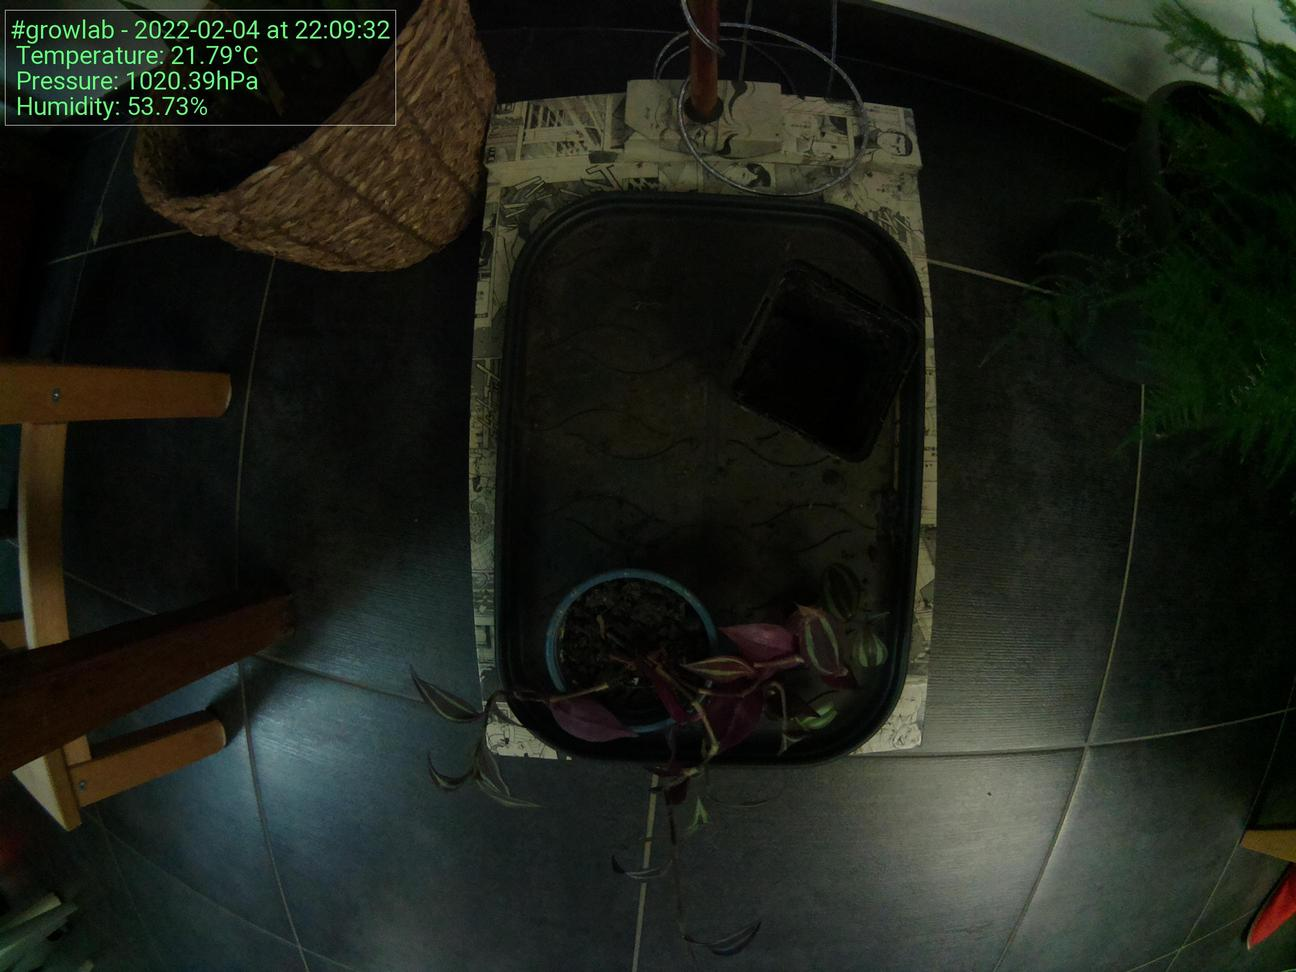
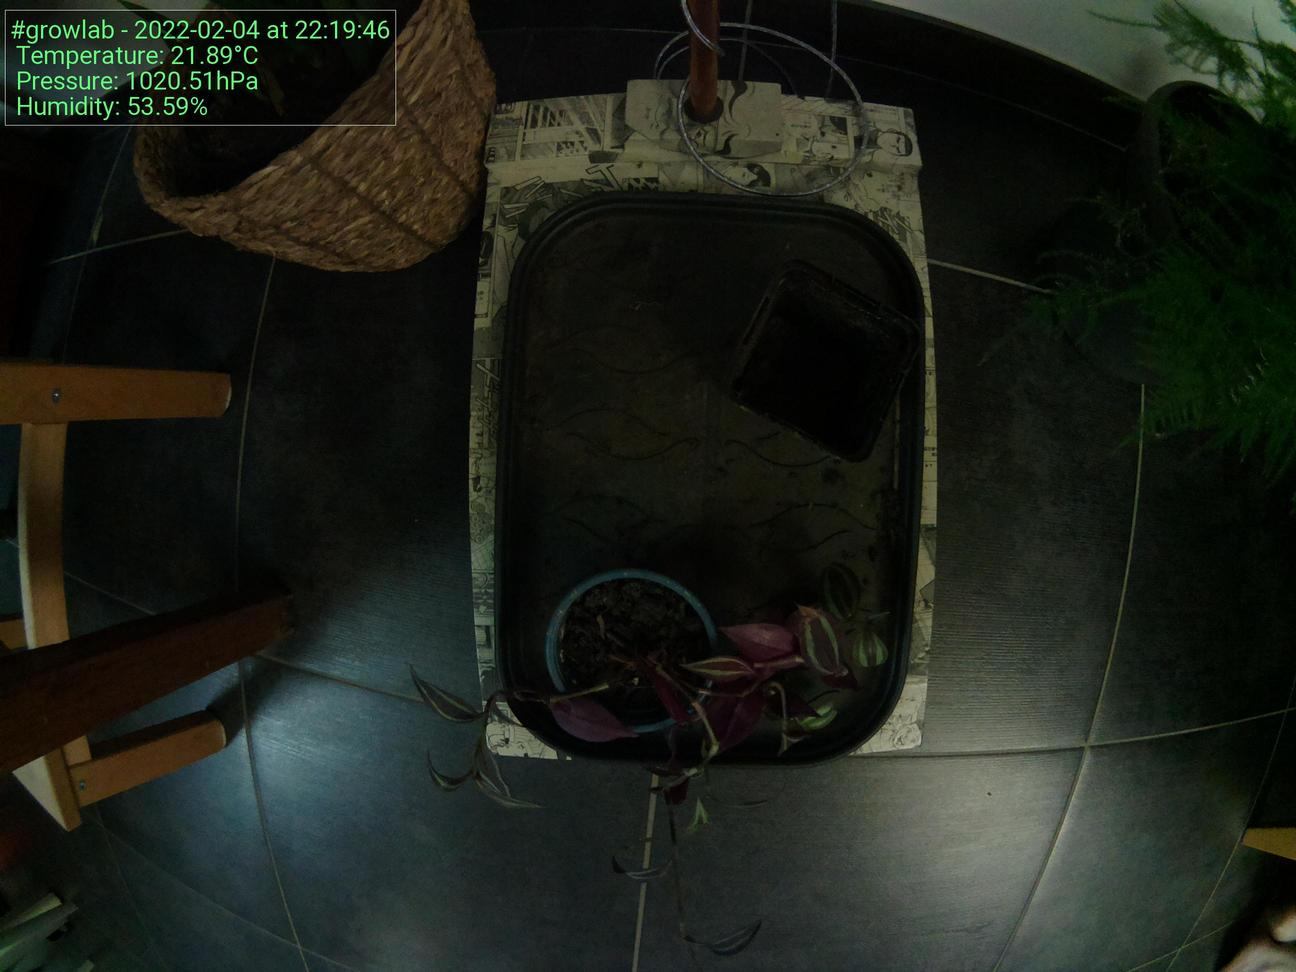
Update images at Fri  4 Feb 22:19:55 CET 2022

Changed region(s): [[0.9259, 0.8642, 1.0, 1.0], [0.1235, 0.0309, 0.1852, 0.1235], [0.2778, 0.0, 0.3086, 0.0617]]

diff --git a/docs/index.html b/docs/index.html
@@ -52,19 +52,19 @@
                             </tr>
                             <tr>
                                 <td>Time</td>
-                                <td>22:09:32</td>
+                                <td>22:19:46</td>
                             </tr>
                             <tr>
                                 <td>Temperature</td>
-                                <td>21.79°C</td>
+                                <td>21.89°C</td>
                             </tr>
                             <tr>
                                 <td>Humidity</td>
-                                <td>53.73%</td>
+                                <td>53.59%</td>
                             </tr>
                             <tr>
                                 <td>Pressure</td>
-                                <td>1020.39hPa</td>
+                                <td>1020.51hPa</td>
                             </tr>
                         </tbody>
                     </table>
@@ -72,7 +72,7 @@
 
                 <h5>Latest image</h5>
                 <div style="width: 85%;">
-                            <img class="figure-img img-fluid rounded" src="./preview.jpg?uid=1644008981.241899">
+                            <img class="figure-img img-fluid rounded" src="./preview.jpg?uid=1644009595.4366102">
                 </div>
             </div>
         </div>
